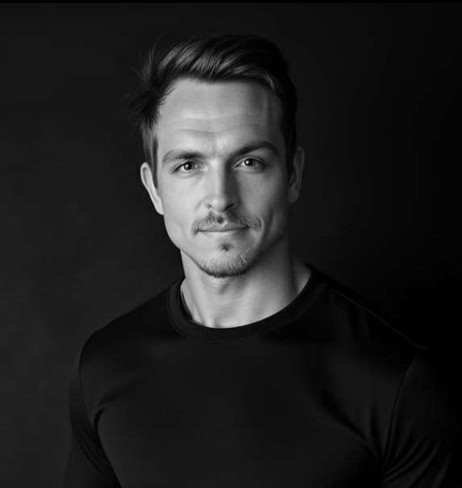
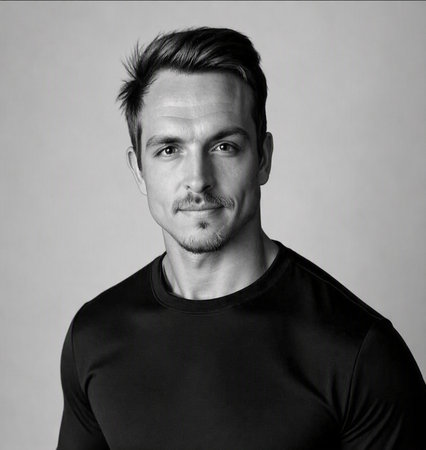
UI Adjustments (#15)
* ensuring the client side is refreshed with website changes

* alignment

* modified images

* centering the header

diff --git a/assets/css/main.css b/assets/css/main.css
@@ -976,6 +976,22 @@ body:not(.home-page) .navbar-small-logo {
   .hero-title-line {
     white-space: nowrap;
   }
+
+  /* The headline needs ~662px at this font size but .hero-content caps it at
+     618px (--pf-hero-content-max-width, 650px, less its 32px padding). Because
+     nowrap forbids a wrap, the line overflows its block, and an overflowing
+     line is anchored at the start edge rather than centred - so the whole 44px
+     of overflow lands on the right and the headline reads 22px right of the
+     centred subtitle. Sizing the h1 to its own text and centring that box puts
+     any overflow symmetrically on both sides, so the text centres on the same
+     axis as the subtitle. Font size and the single line are unchanged. */
+  .hero-title {
+    width: max-content;
+    max-width: none;
+    position: relative;
+    left: 50%;
+    transform: translateX(-50%);
+  }
 }
 
 /* Controlled line break on smaller screens */
@@ -2342,6 +2358,72 @@ body:not(.home-page) .navbar-small-logo {
   /* All members take 1 column each by default (2 per row) */
   .team-card {
     grid-column: auto;
+  }
+}
+
+/* ===== 5-member team layout =====
+   The grid uses a fixed column count, so a 5th card would otherwise be
+   orphaned at the left edge of a new row. Narrow widths keep 2 + 2 + 1 and
+   just centre the last card; wide widths switch to a 3 + 2 pyramid so no
+   member stands alone. Either way the uneven bottom row is centred.
+   Matched two ways: .layout-5-members (added by main.js initTeamGridLayout)
+   and :nth-child(5):last-child, so the layout is correct even if JS is
+   blocked or slow. */
+@media (min-width: 250px) and (max-width: 1399px) {
+  /* 2-column grid: 2 + 2 + 1 */
+  .team-grid.layout-5-members .team-card:nth-child(5),
+  .team-grid .team-card:nth-child(5):last-child {
+    grid-column: 1 / span 2;
+  }
+}
+
+@media (min-width: 1400px) {
+  /* 3 + 2 instead of 4 + 1, so nobody is left standing alone on a row.
+     A 6-column track is what allows the bottom row of two to sit centred
+     beneath the top row of three. The capped width keeps every card the
+     same size and spacing it has in the 4-member layout (274px cells)
+     rather than letting three cards drift apart across the full 1168px. */
+  .team-grid.layout-5-members {
+    grid-template-columns: repeat(6, 1fr);
+    max-width: 870px;
+    margin-left: auto;
+    margin-right: auto;
+  }
+
+  .team-grid.layout-5-members .team-card {
+    grid-column: span 2;
+  }
+
+  /* Bottom row: shift in by one track so the pair centres */
+  .team-grid.layout-5-members .team-card:nth-child(4) {
+    grid-column: 2 / span 2;
+  }
+
+  .team-grid.layout-5-members .team-card:nth-child(5) {
+    grid-column: 4 / span 2;
+  }
+
+  /* The same layout without depending on main.js having run. Written as
+     separate rules on purpose: a selector list containing :has() is thrown
+     away wholesale by browsers that do not support it, which would take the
+     .layout-5-members rules above down with it. */
+  .team-grid:has(.team-card:nth-child(5):last-child) {
+    grid-template-columns: repeat(6, 1fr);
+    max-width: 870px;
+    margin-left: auto;
+    margin-right: auto;
+  }
+
+  .team-grid:has(.team-card:nth-child(5):last-child) .team-card {
+    grid-column: span 2;
+  }
+
+  .team-grid:has(.team-card:nth-child(5):last-child) .team-card:nth-child(4) {
+    grid-column: 2 / span 2;
+  }
+
+  .team-grid:has(.team-card:nth-child(5):last-child) .team-card:nth-child(5) {
+    grid-column: 4 / span 2;
   }
 }
 

diff --git a/sw.js b/sw.js
@@ -4,9 +4,9 @@
  */
 
 // Import constants (Note: Service workers can't use ES6 imports, so we'll define them here)
-const CACHE_VERSION = 'v1.2.2';
-const STATIC_CACHE_NAME = 'polar-flows-static-v1.2.2';
-const DYNAMIC_CACHE_NAME = 'polar-flows-dynamic-v1.2.2';
+const CACHE_VERSION = 'v1.3.7';
+const STATIC_CACHE_NAME = 'polar-flows-static-v1.3.7';
+const DYNAMIC_CACHE_NAME = 'polar-flows-dynamic-v1.3.7';
 
 // Files to cache immediately (critical resources)
 const STATIC_ASSETS = [
@@ -98,6 +98,39 @@ self.addEventListener('fetch', event => {
     return;
   }
   
+  // Network-first for HTML/navigation requests. Content edits (new team member,
+  // copy changes, etc.) then reach returning visitors on their next visit instead
+  // of being pinned to a stale cached page until CACHE_VERSION is bumped.
+  // Falls back to the cached copy, then the cached shell, when offline.
+  if (request.mode === 'navigate' || request.destination === 'document') {
+    // cache: 'no-cache' revalidates with the server instead of accepting a copy
+    // from the browser HTTP cache. GitHub Pages serves HTML with
+    // Cache-Control: max-age=600, so without this a deploy could still be up to
+    // 10 minutes stale. An ETag is sent, so an unchanged page costs only a 304.
+    event.respondWith(
+      fetch(request, { cache: 'no-cache' })
+        .then(response => {
+          // Only refresh the cache with a good response
+          if (response && response.status === 200 && response.type === 'basic') {
+            const responseToCache = response.clone();
+            caches.open(STATIC_CACHE_NAME)
+              .then(cache => {
+                cache.put(request, responseToCache);
+              });
+          }
+          return response;
+        })
+        .catch(error => {
+          console.log('Service Worker: Navigation offline, serving from cache', request.url, error);
+          return caches.match(request)
+            .then(cachedResponse => cachedResponse || caches.match('/index.html'));
+        })
+    );
+    return;
+  }
+  
+  // Everything else (CSS, JS, images, fonts) stays cache-first for speed;
+  // those URLs are versioned via ?v= query strings.
   event.respondWith(
     caches.match(request)
       .then(cachedResponse => {

diff --git a/privacy-policy/index.html b/privacy-policy/index.html
@@ -15,7 +15,7 @@
     <link rel="canonical" href="https://polarflows.com/privacy-policy">
     
     <!-- Preload critical resources -->
-    <link rel="preload" href="../assets/css/main.css?v=1.4.4" as="style">
+    <link rel="preload" href="../assets/css/main.css?v=1.4.7" as="style">
     
     <!-- Preload critical hero background images for faster loading -->
     <link rel="preload" href="../assets/img/polarflows/Stockholm_modif.avif" as="image">
@@ -29,7 +29,7 @@
     
     <!-- Stylesheets -->
     <link rel="stylesheet" href="../assets/css/tokens.css?v=1.0.1">
-    <link rel="stylesheet" href="../assets/css/main.css?v=1.4.4">
+    <link rel="stylesheet" href="../assets/css/main.css?v=1.4.7">
     
     <!-- Google Analytics -->
     <script async src="https://www.googletagmanager.com/gtag/js?id=GA_MEASUREMENT_ID"></script>

diff --git a/contact/index.html b/contact/index.html
@@ -38,7 +38,7 @@
     <link rel="manifest" href="../manifest.webmanifest">
     
     <!-- Preload critical resources -->
-    <link rel="preload" href="../assets/css/main.css?v=1.4.4" as="style">
+    <link rel="preload" href="../assets/css/main.css?v=1.4.7" as="style">
     
     <!-- Preload critical hero background images for faster loading -->
     <link rel="preload" href="../assets/img/polarflows/Stockholm_modif.avif" as="image">
@@ -52,7 +52,7 @@
     
     <!-- Stylesheets -->
     <link rel="stylesheet" href="../assets/css/tokens.css?v=1.0.1">
-    <link rel="stylesheet" href="../assets/css/main.css?v=1.4.4">
+    <link rel="stylesheet" href="../assets/css/main.css?v=1.4.7">
     
     <!-- Google Analytics -->
     <script async src="https://www.googletagmanager.com/gtag/js?id=GA_MEASUREMENT_ID"></script>

diff --git a/index.html b/index.html
@@ -38,7 +38,7 @@
     <link rel="manifest" href="manifest.webmanifest">
     
     <!-- Preload critical resources -->
-    <link rel="preload" href="assets/css/main.css?v=1.4.4" as="style">
+    <link rel="preload" href="assets/css/main.css?v=1.4.7" as="style">
     <link rel="preload" href="assets/js/main.js?v=1.1.3" as="script" crossorigin="anonymous">
     
     <!-- Preload critical hero background images for faster loading -->
@@ -53,7 +53,7 @@
     
     <!-- Stylesheets -->
     <link rel="stylesheet" href="assets/css/tokens.css?v=1.0.1">
-    <link rel="stylesheet" href="assets/css/main.css?v=1.4.4">
+    <link rel="stylesheet" href="assets/css/main.css?v=1.4.7">
     
     <!-- Google Analytics -->
     <script async src="https://www.googletagmanager.com/gtag/js?id=GA_MEASUREMENT_ID"></script>

diff --git a/404.html b/404.html
@@ -17,7 +17,7 @@
     
     <!-- Stylesheets -->
     <link rel="stylesheet" href="assets/css/tokens.css?v=1.0.1">
-    <link rel="stylesheet" href="assets/css/main.css?v=1.4.3">
+    <link rel="stylesheet" href="assets/css/main.css?v=1.4.7">
     
     <style>
         body {
